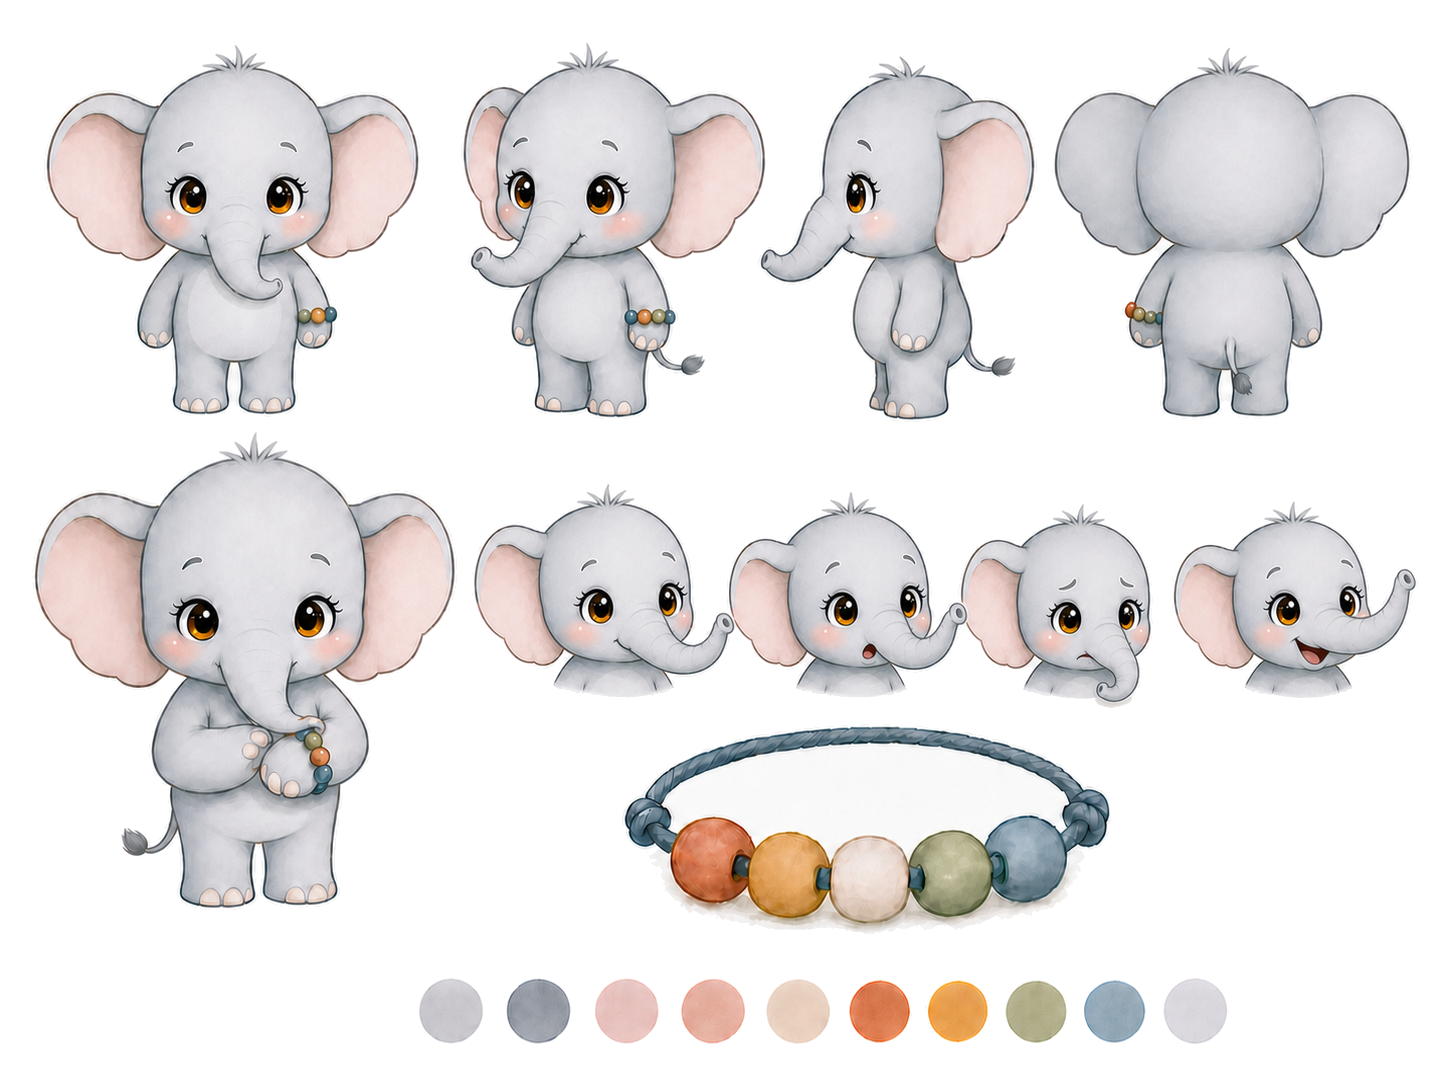
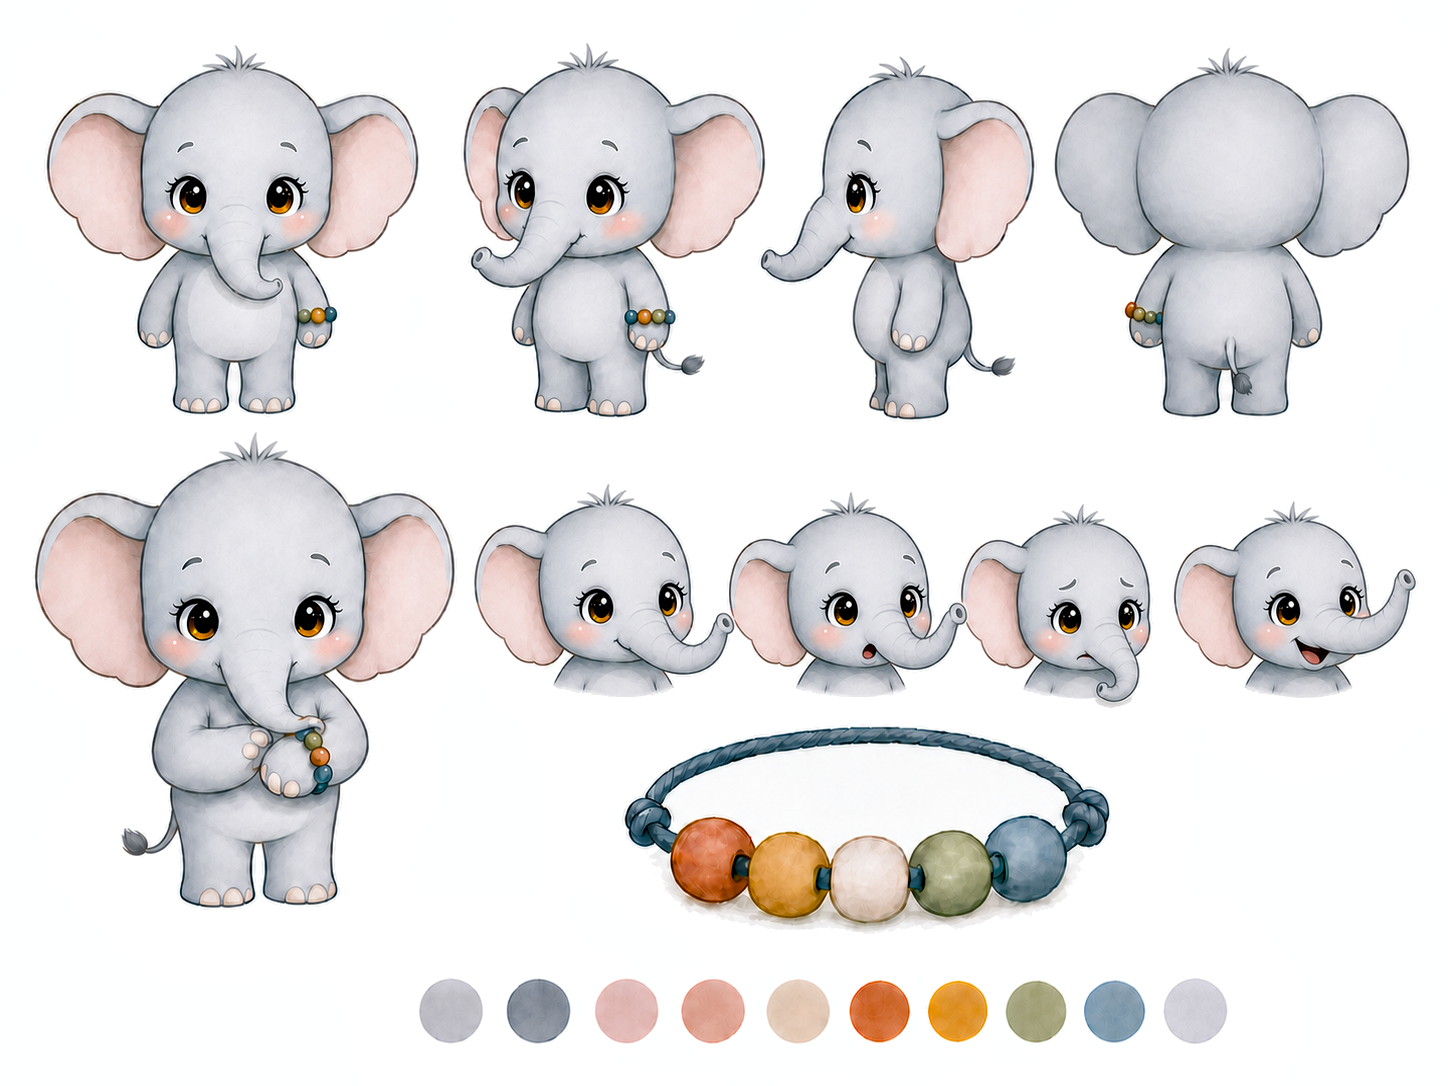
feat: character sheet edits

diff --git a/docs/universe/worlds/lanternleaf/assets/characters/zippy.provenance.md b/docs/universe/worlds/lanternleaf/assets/characters/zippy.provenance.md
@@ -1,16 +1,17 @@
 # Zippy character-sheet provenance
 
 - Accepted asset: `zippy.png`
-- Accepted status: accepted after continuity repairs and solid-matte normalization
-- Revision scope: removed duplicated lower character views, made the compass persistent, replaced them with isolated sling and compass studies, locked one tapered rear-center nub, and clarified the partially occluded second wing in the flying pose
+- Accepted status: accepted after continuity, watercolor-surface, contour, and solid-matte repairs
+- Revision scope: removed duplicated lower character views, made the compass persistent, replaced them with isolated sling and compass studies, locked one tapered rear-center nub, clarified the partially occluded second wing in the flying pose, then replaced mottled brown and wooden surfaces and scalloped stripe edges with calm continuous washes and fluid contours
 - Generator: built-in `image_gen`
 - Provider request IDs: not exposed by the built-in tool
[2 lines of base64/hex data omitted]
-- Accepted provider artifact ID: `exec-c833115d-237f-485f-97ab-588d00d15f39`
-- Accepted provider-original path at generation time: `/Users/ka/.codex/generated_images/01a0136b-9327-7770-ae13-d6f2e1ca881c/exec-c833115d-237f-485f-97ab-588d00d15f39.png`
[3 lines of base64/hex data omitted]
+- Accepted provider artifact ID: `exec-2e1ebe79-0459-4332-a3c6-693553aec0a9`
+- Accepted provider-original path at generation time: `/Users/ka/.codex/generated_images/01a0136b-9327-7770-ae13-d6f2e1ca881c/exec-2e1ebe79-0459-4332-a3c6-693553aec0a9.png`
[2 lines of base64/hex data omitted]
 - Derivation: border-connected pixels within 10 RGB values of `#FFFFFF` normalized to exact `#FFFFFF` with `.codex/skills/create-lanternleaf-scenes/scripts/normalize_solid_matte.py`; visual content unchanged.
 
 ## Candidate audit
@@ -21,7 +22,8 @@
[6 lines of base64/hex data omitted]
 
 ## Exact prompt set
 
@@ -211,4 +213,34 @@ Keep the same native 4:3 dimensions and one perfectly solid #FFFFFF matte to eve
 No text, labels, arrows, guides, boxes, borders, extra objects, logo, or watermark.
 
 Final instruction: clarify exactly two separate wings in the bottom-left flying pose only; change nothing else.
+```
+
+### Watercolor-surface and stripe-contour repair
+
+```text
+Use case: precise-object-edit
+Asset type: canonical Lanternleaf character reference sheet for ages 5–7
+Input image: Image 1 is the edit target and sole authority for Zippy’s identity, anatomy, proportions, layout, poses, expressions, accessory construction, palette, and canvas.
+
+Change only the patchy watercolor texture and scalloped micro-linework; preserve every design and composition invariant unchanged.
+
+Primary repair:
+- Repaint every dark-brown body stripe/band on every full-body Zippy as a smooth, broad, contiguous natural watercolor field with calm continuous color and only gentle low-frequency tonal transitions. Remove all mottled patches, repeated little tonal islands, scale-like marks, pebbling, granulation simulation, and tiny brush dabs.
+- Replace the many tiny arc/scallop marks along every yellow-to-brown stripe boundary with one thin, fluid, mostly continuous, softly hand-painted boundary line following the existing band shape. The boundary must be smooth and simple, not fuzzy, jagged, beaded, furry, scalloped, or built from repeated short strokes.
+- Repaint the warm wooden compass cases and the isolated compass frame, plus the continuous leather sling, with the same clean natural watercolor discipline: broad unified warm-brown washes, gentle large-scale tonal variation, and quiet continuous surfaces. Remove patchwork facets, repeated dark blocks, noisy grain, and mottled pigment marks. Retain a subtle handmade watercolor character without becoming flat vector art.
+- Use longer confident contour strokes. Keep contours locally color-matched: deeper warm brown around brown bands, wood, and leather; deeper honey ochre around yellow; muted lavender-brown around wings. Contours remain mildly pressure-sensitive and handmade, but not constructed from tiny arcs.
+
+Absolute invariants — preserve exactly:
+- Original 1448×1086 4:3 canvas, solid pure #FFFFFF background, borderless organization, all whitespace and all panel positions/scales.
+- One canonical Zippy design in all views: exact head/body proportions, golden-yellow palette, forehead freckles, rosy cheeks, reflective eyes, two curled antennae, exact face construction, and all four existing expressions.
+- Top row remains exactly front, 3/4 front, side, back; bottom-left remains the same hovering pose; large head study, expression strip, isolated full sling assembly, enlarged compass close-up, and exactly eight circular swatches remain in the same locations.
+- Every full-body depiction keeps exactly two arms, two feet, two pale lavender wings with the same visibility/occlusion and vein structure, two antennae, and one small tapered dark-brown rear-center tail/stinger nub. Do not add, remove, merge, resize, or reposition anatomy.
+- The same wooden compass, small green leaf charm, and one continuous diagonal sling remain present and physically connected in all five full-body depictions. Keep compass size, position, face design, green-and-rust needle, cream face, clasp, and leaf exactly consistent. Keep the isolated sling and enlarged compass composition unchanged.
+- Do not alter silhouettes, poses, facial expressions, accessory state, markings, colors, wing translucency, swatches, crop, or sheet content.
+
+Medium: clean handcrafted hybrid watercolor and fine locally colored storybook contour work. Smooth broad contiguous washes, calm unified painted masses, luminous continuous color, gentle natural transitions at broad scale.
+
+Avoid: mottled watercolor, patch-by-patch rendering, repeated tiny brush marks, noisy pigment texture, stippling, granulation simulation, dry-brush fill, repeated little tonal islands, scale texture, high-frequency variation, scalloped stripe borders, strings of tiny arcs, fuzzy band edges, universal black outlines, vector-clean finish, paper grain, beige cast, gray background, text, boxes, borders, watermark, or any redesign.
+
+Final priority: preserve canonical Zippy and the full sheet exactly → smooth every brown band and wooden/leather surface → replace scalloped band boundaries with fluid continuous lines → maintain handmade natural watercolor.
 ```

diff --git a/docs/universe/worlds/lanternleaf/assets/characters/index.md b/docs/universe/worlds/lanternleaf/assets/characters/index.md
@@ -30,7 +30,8 @@ accessory. Scene-specific tools and props appear only when the story needs them.
 The accepted sheets linked above define current visual identity:
 
 - Dia carries her mapmaking satchel and wears her short olive cloak.
-- Zippy consistently wears his wooden compass on one continuous sling.
+- Zippy consistently wears his wooden compass on one continuous sling. Each
+  visible eye has three short, soft, warm honey-brown upper eyelashes.
 - Pebble wears his builder's belt with its wooden cord bobbin.
 - Kavi wears one five-bead Sunbank clay bracelet on her left wrist. She is a
   fully upright young elephant with an oversized head, short compact body, and
